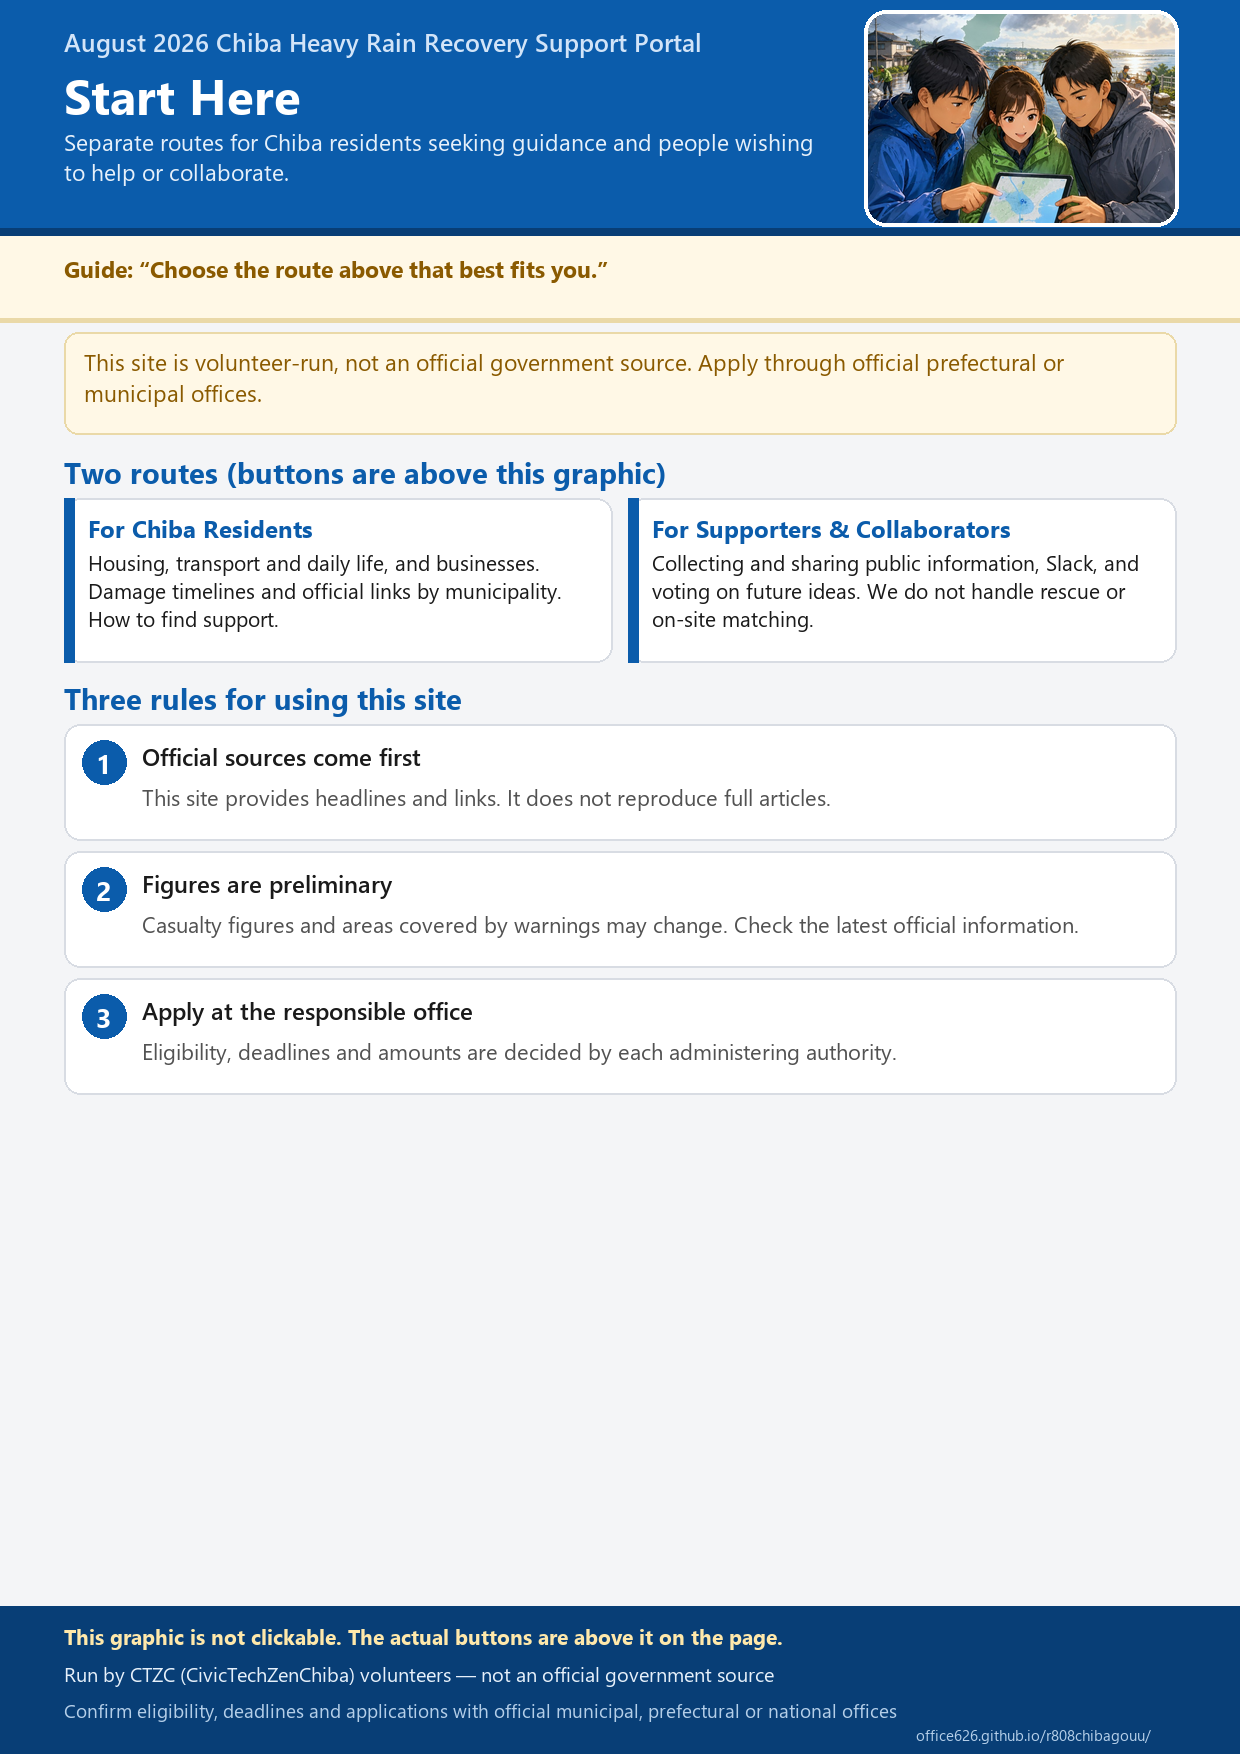
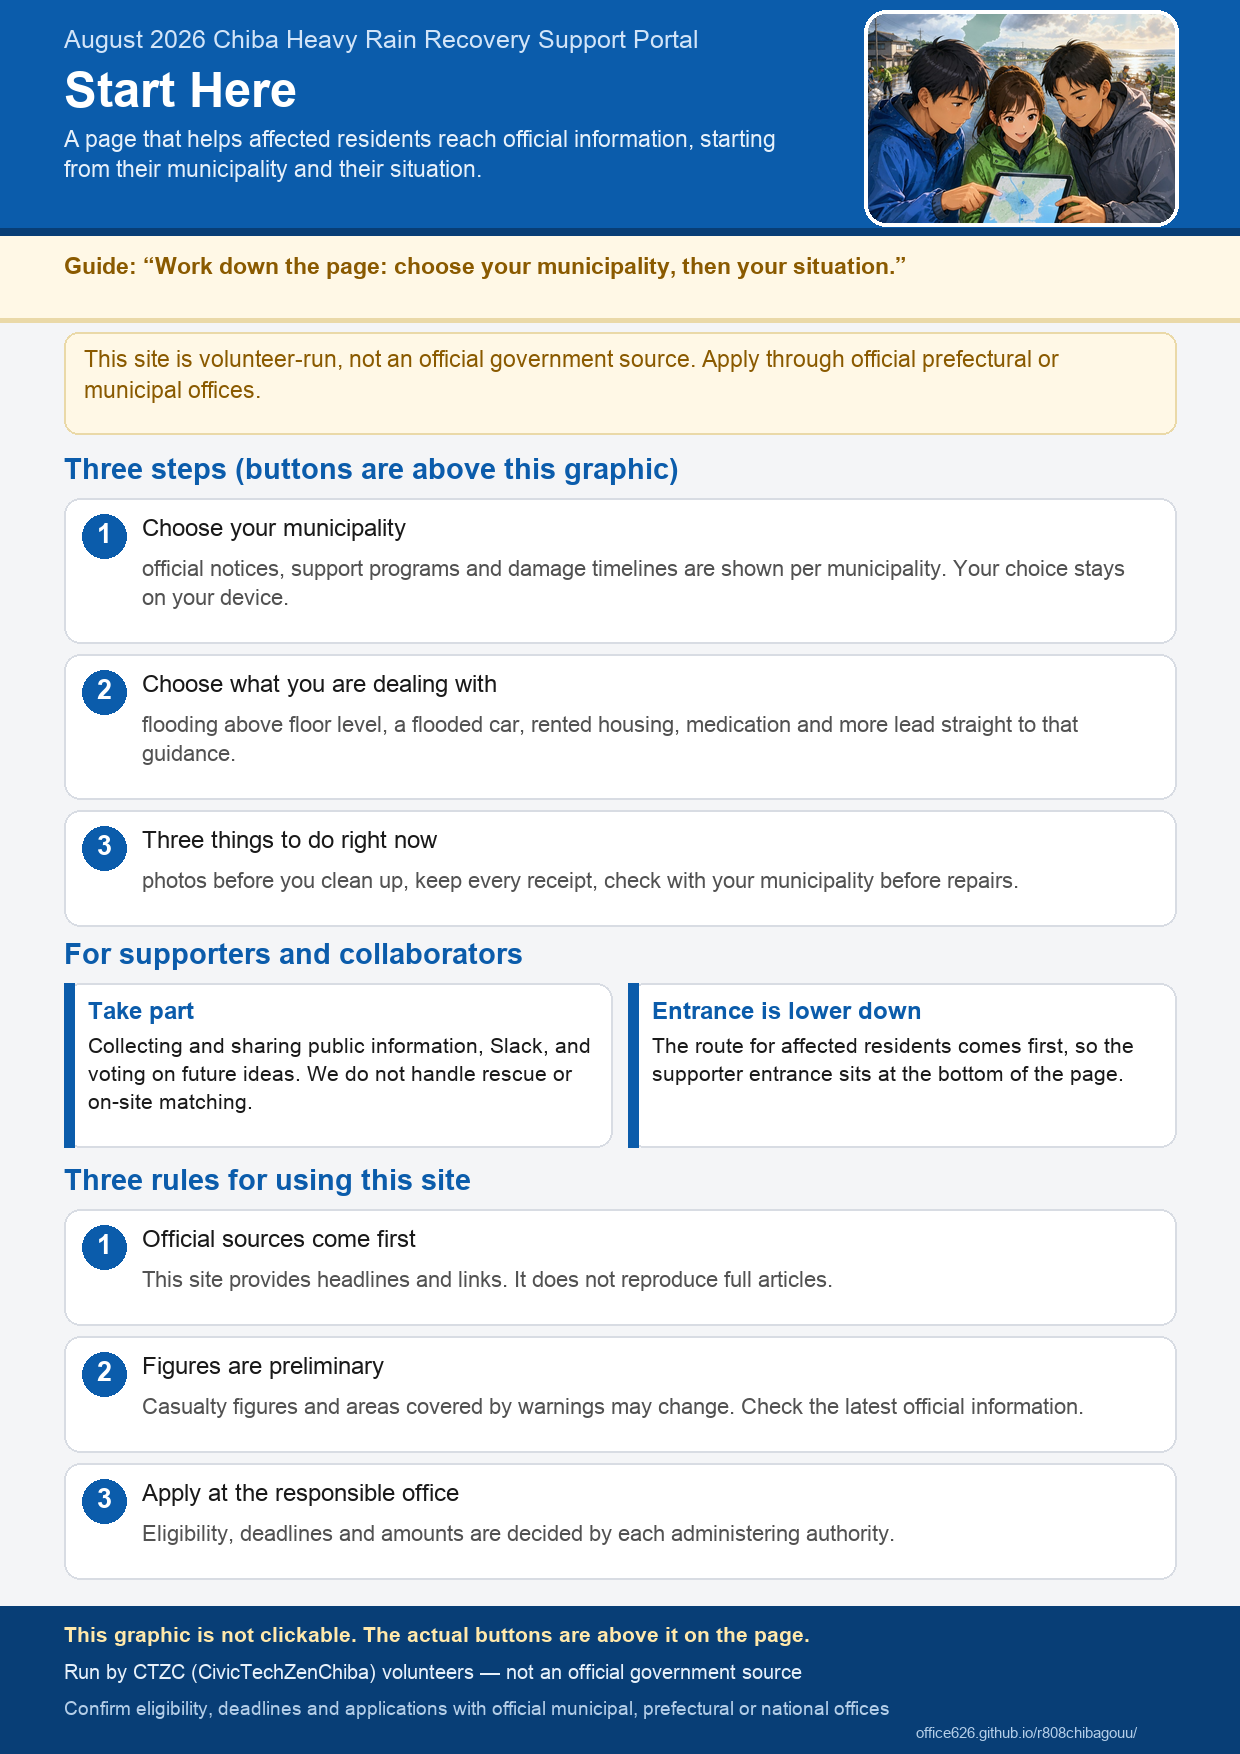
インフォグラフィックを Windows 以外でも描けるようにし、入口の図を作り直す。
build_infographics.py と _en.py が C:\Windows\Fonts のフォントを直接読んでいたため、
Windows でしか画像を作り直せなかった。

- フォントを FONT_CANDIDATES（Windows → macOS → Linux の順）から探し、最初に見つかった
  ものを使う。どれも無ければ、候補を並べて何を入れればよいか示して終わる。
- 引数にファイル名を渡すと、その分だけ描き直せるようにした。全部を別のフォントで
  作り直さずに済む。例: python scripts/build_infographics.py info-portal.png
- 入口の図（info-portal.png / info-portal-en.png）を新しい3手順の内容で作り直した。
  この2枚は macOS のヒラギノ角ゴシック／Arial で描いている。
- 「参加する」の説明を読点区切りにして、行頭に句点が来る折り返しを避けた。

diff --git a/scripts/build_infographics.py b/scripts/build_infographics.py
@@ -2,15 +2,37 @@
 """各公開ページ用の A4 縦インフォグラフィック（PNG）を描画する。"""
 from __future__ import annotations
 
+import sys
 from pathlib import Path
 
 from PIL import Image, ImageDraw, ImageFont, ImageOps
 
 ROOT = Path(__file__).resolve().parents[1]
+# 引数にファイル名を渡すと、その分だけ描き直す（例: info-portal.png）。無指定なら全部。
+ONLY = set(sys.argv[1:])
 OUT = ROOT / "site" / "img"
-FONT_R = r"C:\Windows\Fonts\YuGothR.ttc"
-FONT_M = r"C:\Windows\Fonts\YuGothM.ttc"
-FONT_B = r"C:\Windows\Fonts\YuGothB.ttc"
+# 描画に使う日本語フォント。上から順に、最初に見つかったものを使う。
+# Windows・macOS・Linux のどこで実行しても描けるようにするため。書体は環境で変わる。
+FONT_CANDIDATES = {
+    "r": [
+        r"C:\Windows\Fonts\YuGothR.ttc",
+        "/System/Library/Fonts/ヒラギノ角ゴシック W3.ttc",
+        "/usr/share/fonts/opentype/noto/NotoSansCJK-Regular.ttc",
+        "/usr/share/fonts/truetype/fonts-japanese-gothic.ttf",
+    ],
+    "m": [
+        r"C:\Windows\Fonts\YuGothM.ttc",
+        "/System/Library/Fonts/ヒラギノ角ゴシック W5.ttc",
+        "/usr/share/fonts/opentype/noto/NotoSansCJK-Medium.ttc",
+        "/usr/share/fonts/truetype/fonts-japanese-gothic.ttf",
+    ],
+    "b": [
+        r"C:\Windows\Fonts\YuGothB.ttc",
+        "/System/Library/Fonts/ヒラギノ角ゴシック W7.ttc",
+        "/usr/share/fonts/opentype/noto/NotoSansCJK-Bold.ttc",
+        "/usr/share/fonts/truetype/fonts-japanese-gothic.ttf",
+    ],
+}
 
 # A4 縦 150dpi（210mm x 297mm）
 W, H = 1240, 1754
@@ -31,6 +53,18 @@ BLUE_BG = (231, 241, 251)
 
 def font(path: str, size: int) -> ImageFont.FreeTypeFont:
     return ImageFont.truetype(path, size, index=0)
+
+
+def font_path(kind: str) -> str:
+    """kind（r=標準 / m=中太 / b=太字）に対して、この環境にあるフォントを1つ返す。"""
+    for path in FONT_CANDIDATES[kind]:
+        if Path(path).exists():
+            return path
+    tried = "\n  ".join(FONT_CANDIDATES[kind])
+    raise SystemExit(
+        "描画に使えるフォントが見つかりません。いずれかを入れるか、"
+        f"FONT_CANDIDATES に足してください:\n  {tried}"
+    )
 
 
 def wrap(draw: ImageDraw.ImageDraw, text: str, fnt: ImageFont.FreeTypeFont, max_w: int) -> list[str]:
@@ -88,8 +122,7 @@ class Sheet:
         self._footer()
 
     def f(self, kind: str, size: int) -> ImageFont.FreeTypeFont:
-        path = {"r": FONT_R, "m": FONT_M, "b": FONT_B}[kind]
-        return font(path, size)
+        return font(font_path(kind), size)
 
     def _header(self):
         self.d.rectangle((0, 0, W, 228), fill=ACCENT)
@@ -233,6 +266,8 @@ class Sheet:
         self.y = y + 60
 
     def save(self, name: str):
+        if ONLY and name not in ONLY:
+            return
         path = OUT / name
         self.im.save(path, "PNG", optimize=True)
         print("wrote", path)
@@ -261,7 +296,7 @@ def build_all() -> None:
     s.h2("支援・協働する方へ")
     s.grid(
         [
-            ("参加する", "公開情報の収集と拡散。Slack。今後の案への投票。救命や現地マッチングは担いません。"),
+            ("参加する", "公開情報の収集と拡散、Slack、今後の案への投票。救命や現地マッチングは担いません。"),
             ("入口はページの下", "被災された方の導線を先に置いているため、支援者向けの入口はページの下にあります。"),
         ]
     )

diff --git a/scripts/build_infographics_en.py b/scripts/build_infographics_en.py
@@ -2,15 +2,34 @@
 """Generate ten English A4 portrait infographics for the public site."""
 from __future__ import annotations
 
+import sys
 from pathlib import Path
 
 from PIL import Image, ImageDraw, ImageFont, ImageOps
 
 ROOT = Path(__file__).resolve().parents[1]
+# 引数にファイル名を渡すと、その分だけ描き直す（例: info-portal-en.png）。無指定なら全部。
+ONLY = set(sys.argv[1:])
 OUT = ROOT / "site" / "img"
-FONT_R = r"C:\Windows\Fonts\segoeui.ttf"
-FONT_M = r"C:\Windows\Fonts\seguisb.ttf"
-FONT_B = r"C:\Windows\Fonts\segoeuib.ttf"
+# 描画に使う欧文フォント。上から順に、最初に見つかったものを使う。
+# Windows・macOS・Linux のどこで実行しても描けるようにするため。書体は環境で変わる。
+FONT_CANDIDATES = {
+    "r": [
+        r"C:\Windows\Fonts\segoeui.ttf",
+        "/System/Library/Fonts/Supplemental/Arial.ttf",
+        "/usr/share/fonts/truetype/dejavu/DejaVuSans.ttf",
+    ],
+    "m": [
+        r"C:\Windows\Fonts\seguisb.ttf",
+        "/System/Library/Fonts/Supplemental/Arial.ttf",
+        "/usr/share/fonts/truetype/dejavu/DejaVuSans.ttf",
+    ],
+    "b": [
+        r"C:\Windows\Fonts\segoeuib.ttf",
+        "/System/Library/Fonts/Supplemental/Arial Bold.ttf",
+        "/usr/share/fonts/truetype/dejavu/DejaVuSans-Bold.ttf",
+    ],
+}
 
 # A4 portrait at 150 dpi (210 mm x 297 mm)
 W, H = 1240, 1754
@@ -31,6 +50,18 @@ BLUE_BG = (231, 241, 251)
 
 def font(path: str, size: int) -> ImageFont.FreeTypeFont:
     return ImageFont.truetype(path, size)
+
+
+def font_path(kind: str) -> str:
+    """kind（r=標準 / m=中太 / b=太字）に対して、この環境にあるフォントを1つ返す。"""
+    for path in FONT_CANDIDATES[kind]:
+        if Path(path).exists():
+            return path
+    tried = "\n  ".join(FONT_CANDIDATES[kind])
+    raise SystemExit(
+        "描画に使えるフォントが見つかりません。いずれかを入れるか、"
+        f"FONT_CANDIDATES に足してください:\n  {tried}"
+    )
 
 
 def wrap(
@@ -105,7 +136,7 @@ class Sheet:
         self._footer()
 
     def f(self, kind: str, size: int) -> ImageFont.FreeTypeFont:
-        return font({"r": FONT_R, "m": FONT_M, "b": FONT_B}[kind], size)
+        return font(font_path(kind), size)
 
     def _header(self):
         self.d.rectangle((0, 0, W, 228), fill=ACCENT)
@@ -320,6 +351,8 @@ class Sheet:
         self.y = y + 54
 
     def save(self, name: str):
+        if ONLY and name not in ONLY:
+            return
         if self.y > H - 160:
             raise RuntimeError(f"Content overflow in {name}: y={self.y}")
         path = OUT / name
